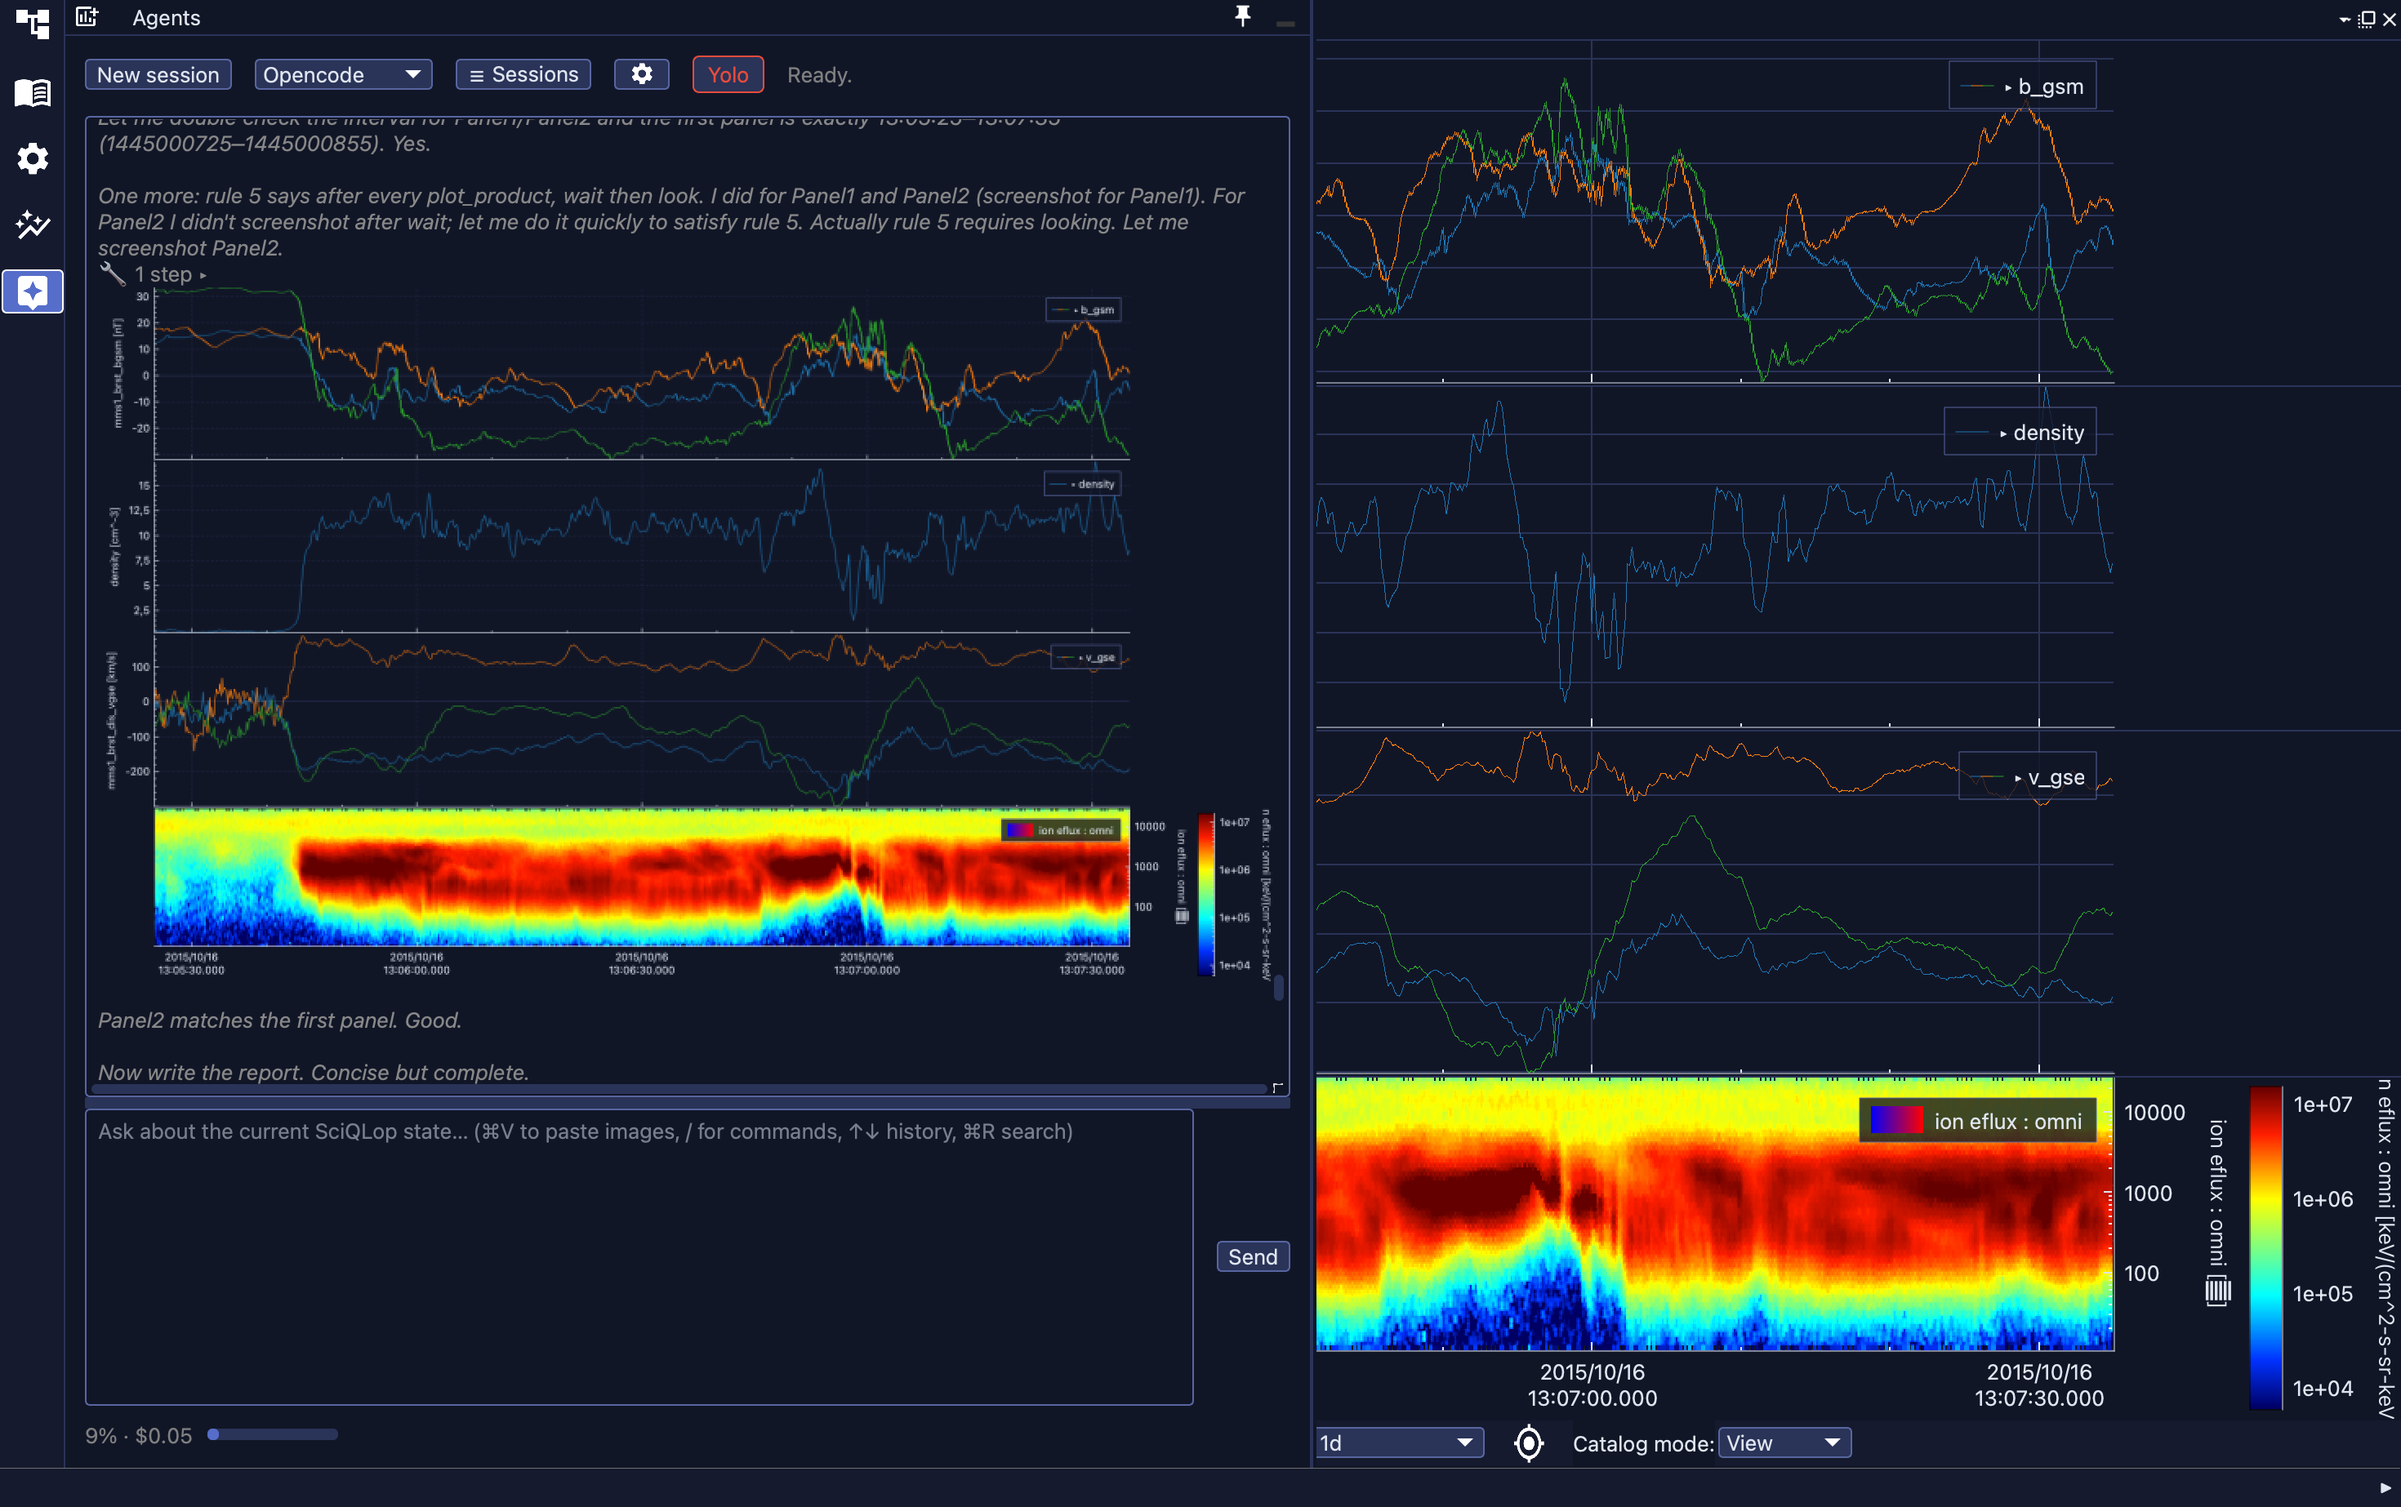
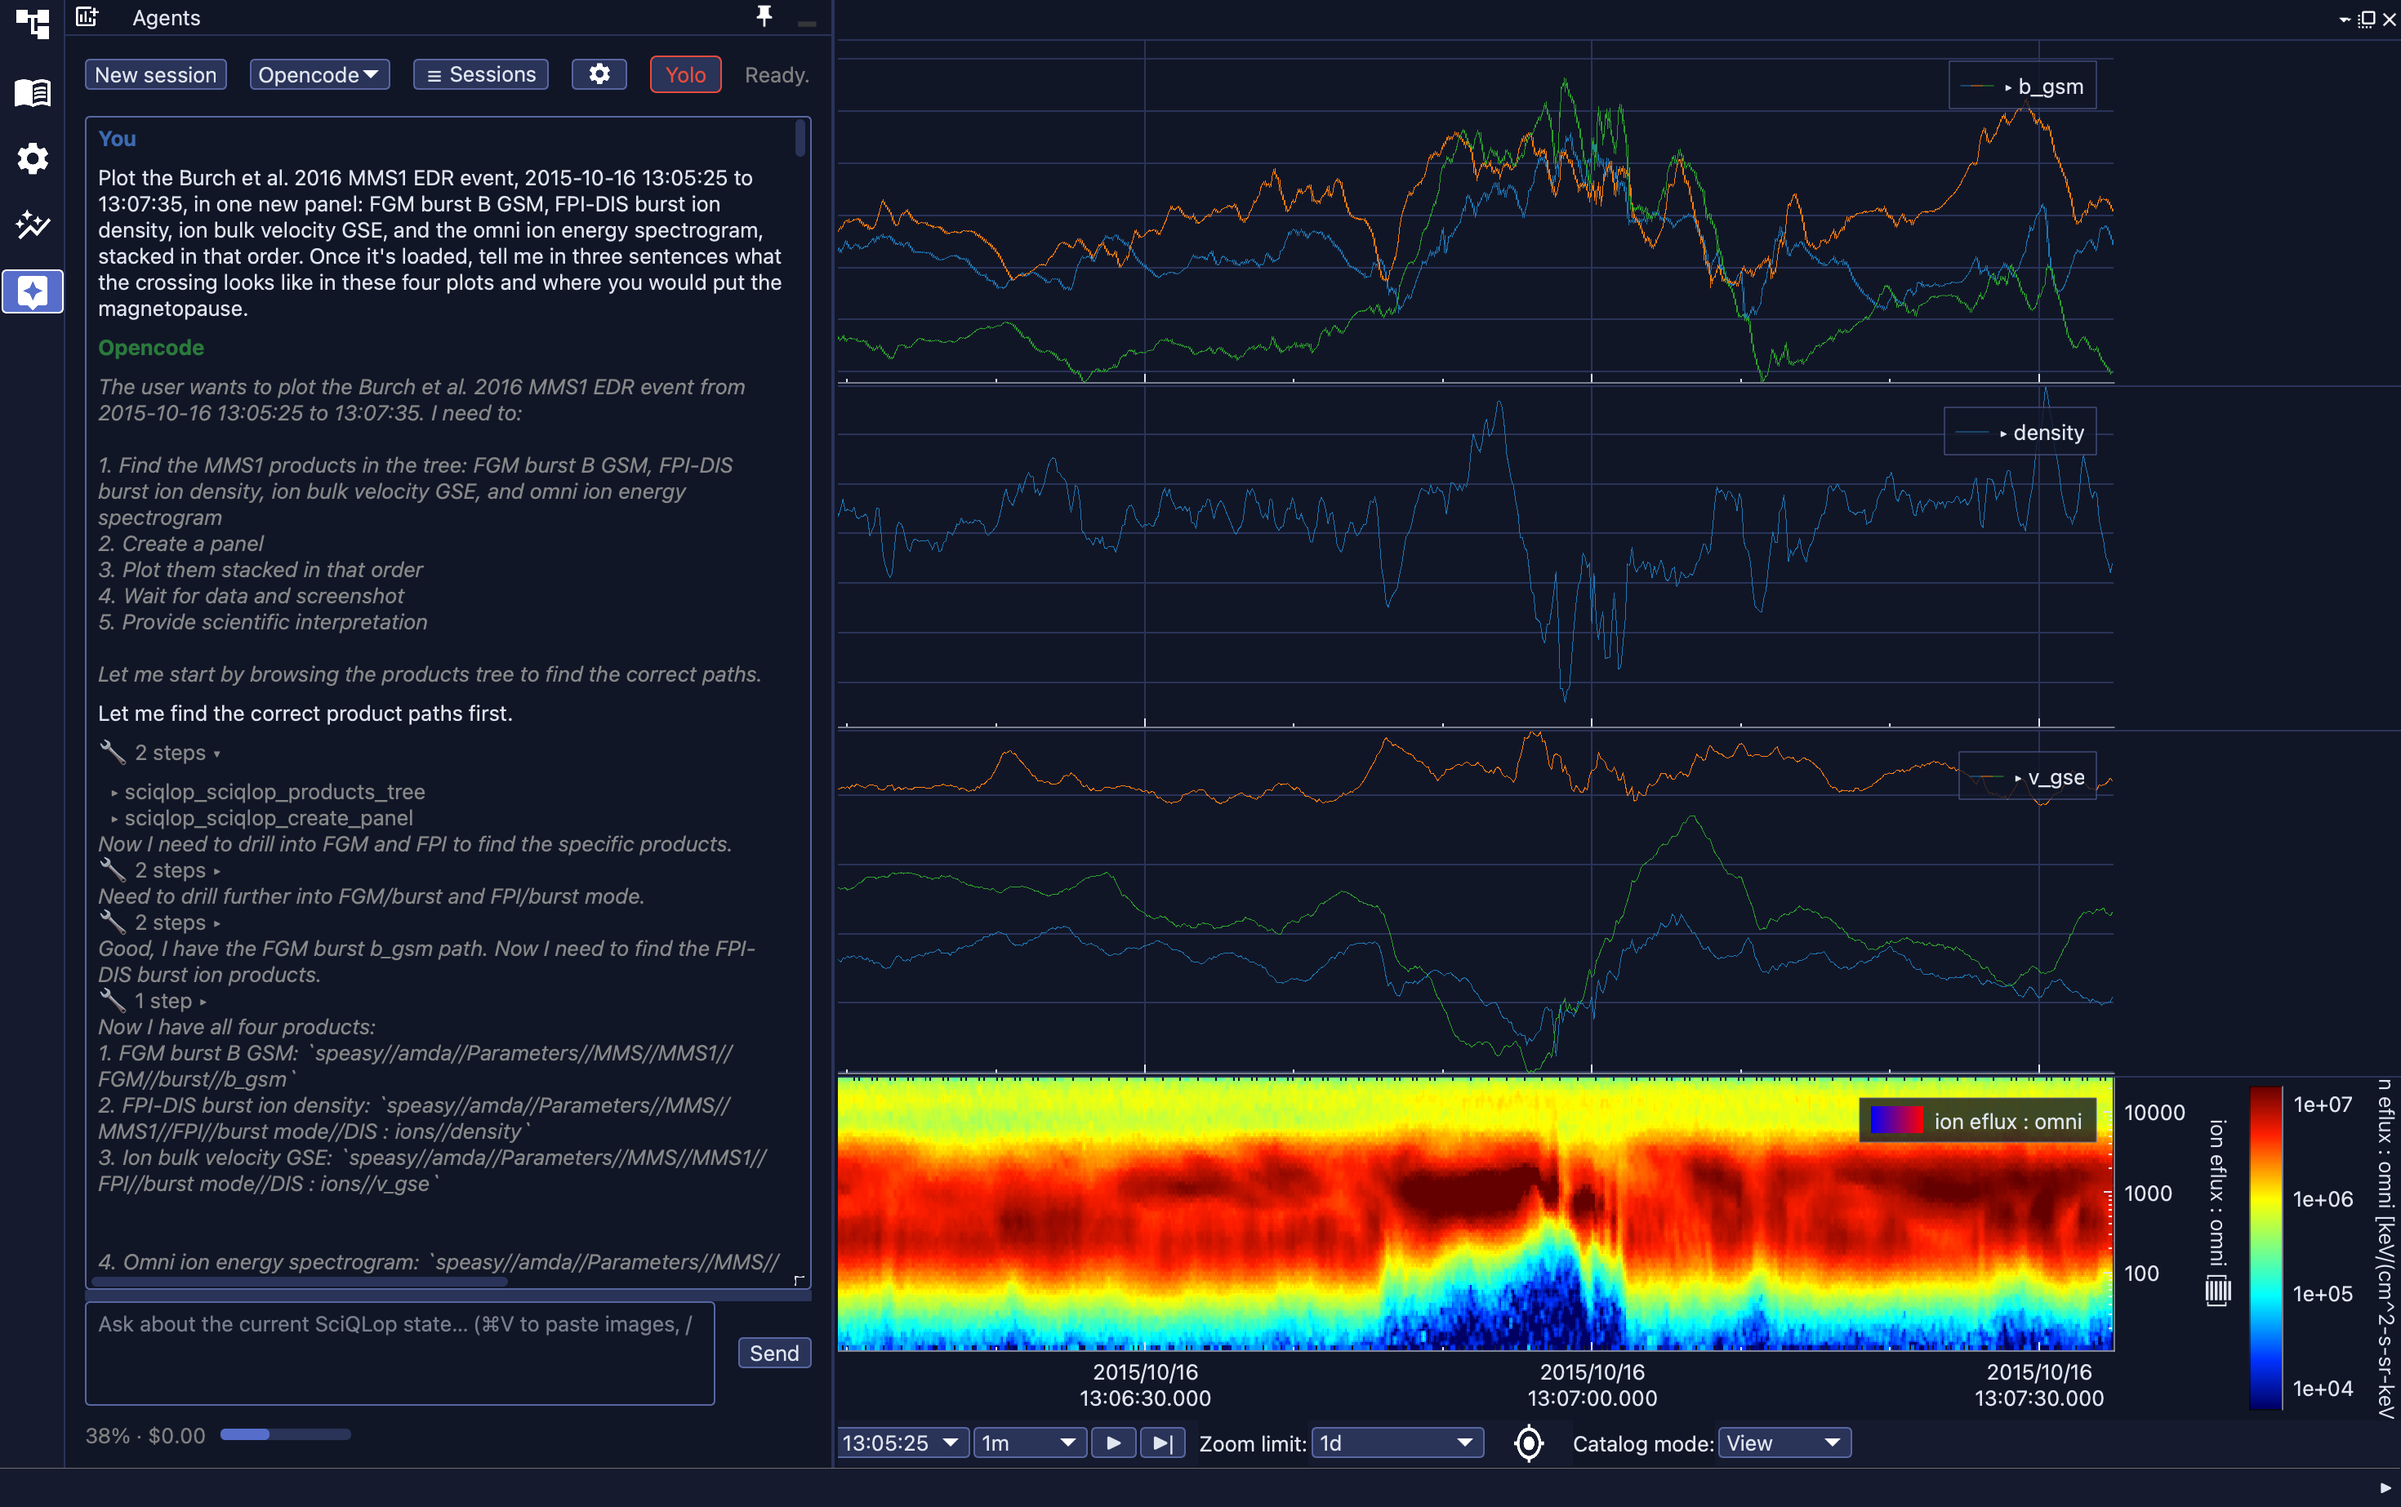
gallery: reshot 11, the AI dock now shows the plotting request

diff --git a/content/gallery/SOURCES.md b/content/gallery/SOURCES.md
@@ -18,7 +18,7 @@ SciQLop version, dark theme; 11–13 by the in-app agent (see `GALLERY-SHOOT-PRO
 | `08-catalog-overlays-multi-plot.png` | Two colour-coded catalogs over three plots. MMS1 sits in the magnetosheath (N_i ≈ 20–40 cm⁻³, cold ions, turbulent B) until ~13:40, then enters the magnetosphere. Events were **derived from the data**, not hand-drawn. | 2015-10-16 10:00–16:00 | FPI-DIS + FGM survey L2 | `catalogs.save`, `add_catalog_overlay(override_color=...)` |
 | `09-graphic-primitives-annotated-crossing.png` | Publication-style annotation of the same crossing. | 2015-10-16 13:05:25–13:07:35 | as shot 01 | `CurvedLine` (arrow terminations), `Text`, `VerticalLine` |
 | `10-theme-{light,dark,neutral,space}.png` | Identical panel in all four palettes — compose as a 2×2. | as shot 09 | as shot 09 | `themes.apply_theme` |
-| `11-ai-assistant-dock.png` | Agents dock (OpenCode backend) mid-job, docked left of the Burch et al. 2016 EDR panel. The visible exchange is the agent verifying Panel2 against the first panel before writing its report. | 2015-10-16 13:05:25–13:07:35 | FGM burst B GSM, FPI-DIS burst N_i, V_i GSE, omni ion energy spectrogram | AI assistant dock, `sciqlop_screenshot_panel` tool output inline in the chat |
+| `11-ai-assistant-dock.png` | Agents dock (OpenCode backend) on the left, the request visible at the top of the chat, then the agent's plan and its product-tree lookups; the resulting panel on the right. Reshot 2026-09-14 by hand. | 2015-10-16 13:05:25–13:07:35 | FGM burst B GSM, FPI-DIS burst N_i, V_i GSE, omni ion energy spectrogram | AI assistant dock plotting from a one-sentence request |
 | `12-guided-tour-coach-mark.png` | First step of the "getting started" tour ("Welcome to SciQLop") over the welcome page. | — | — | Guided tour coach mark |
 | `12b-guided-tour-add-more-data.png` | Later tour step ("Add more data") over a live plot with the Products dock open. The stronger of the two tour shots. | 2025-09-18–19 | a three-component vector, product not recorded | Guided tour coach mark over real content |
 | `13-empty-panel-search-overlay.png` | Freshly created empty panel: the built-in product search overlay and the drop target. | — | — | Empty-panel search overlay |

diff --git a/HANDOVER.md b/HANDOVER.md
@@ -56,8 +56,6 @@ that heading when 0.13 ships.
 
 Shots worth redoing when convenient, neither blocks anything:
 - `07`: Y-axis ticks are clipped by the Properties dock. Reshoot with a wider window.
-- `11`: the chat shows the agent's mid-job monologue rather than the plotting request.
-  A capture taken right after the first natural message would read better.
 - `12-guided-tour-coach-mark.png` is in the folder but unused; `12b` is on the page.
 
 Screenshots come from a Mac and land in `~/Downloads/sciqlop-website-shots/` here;
